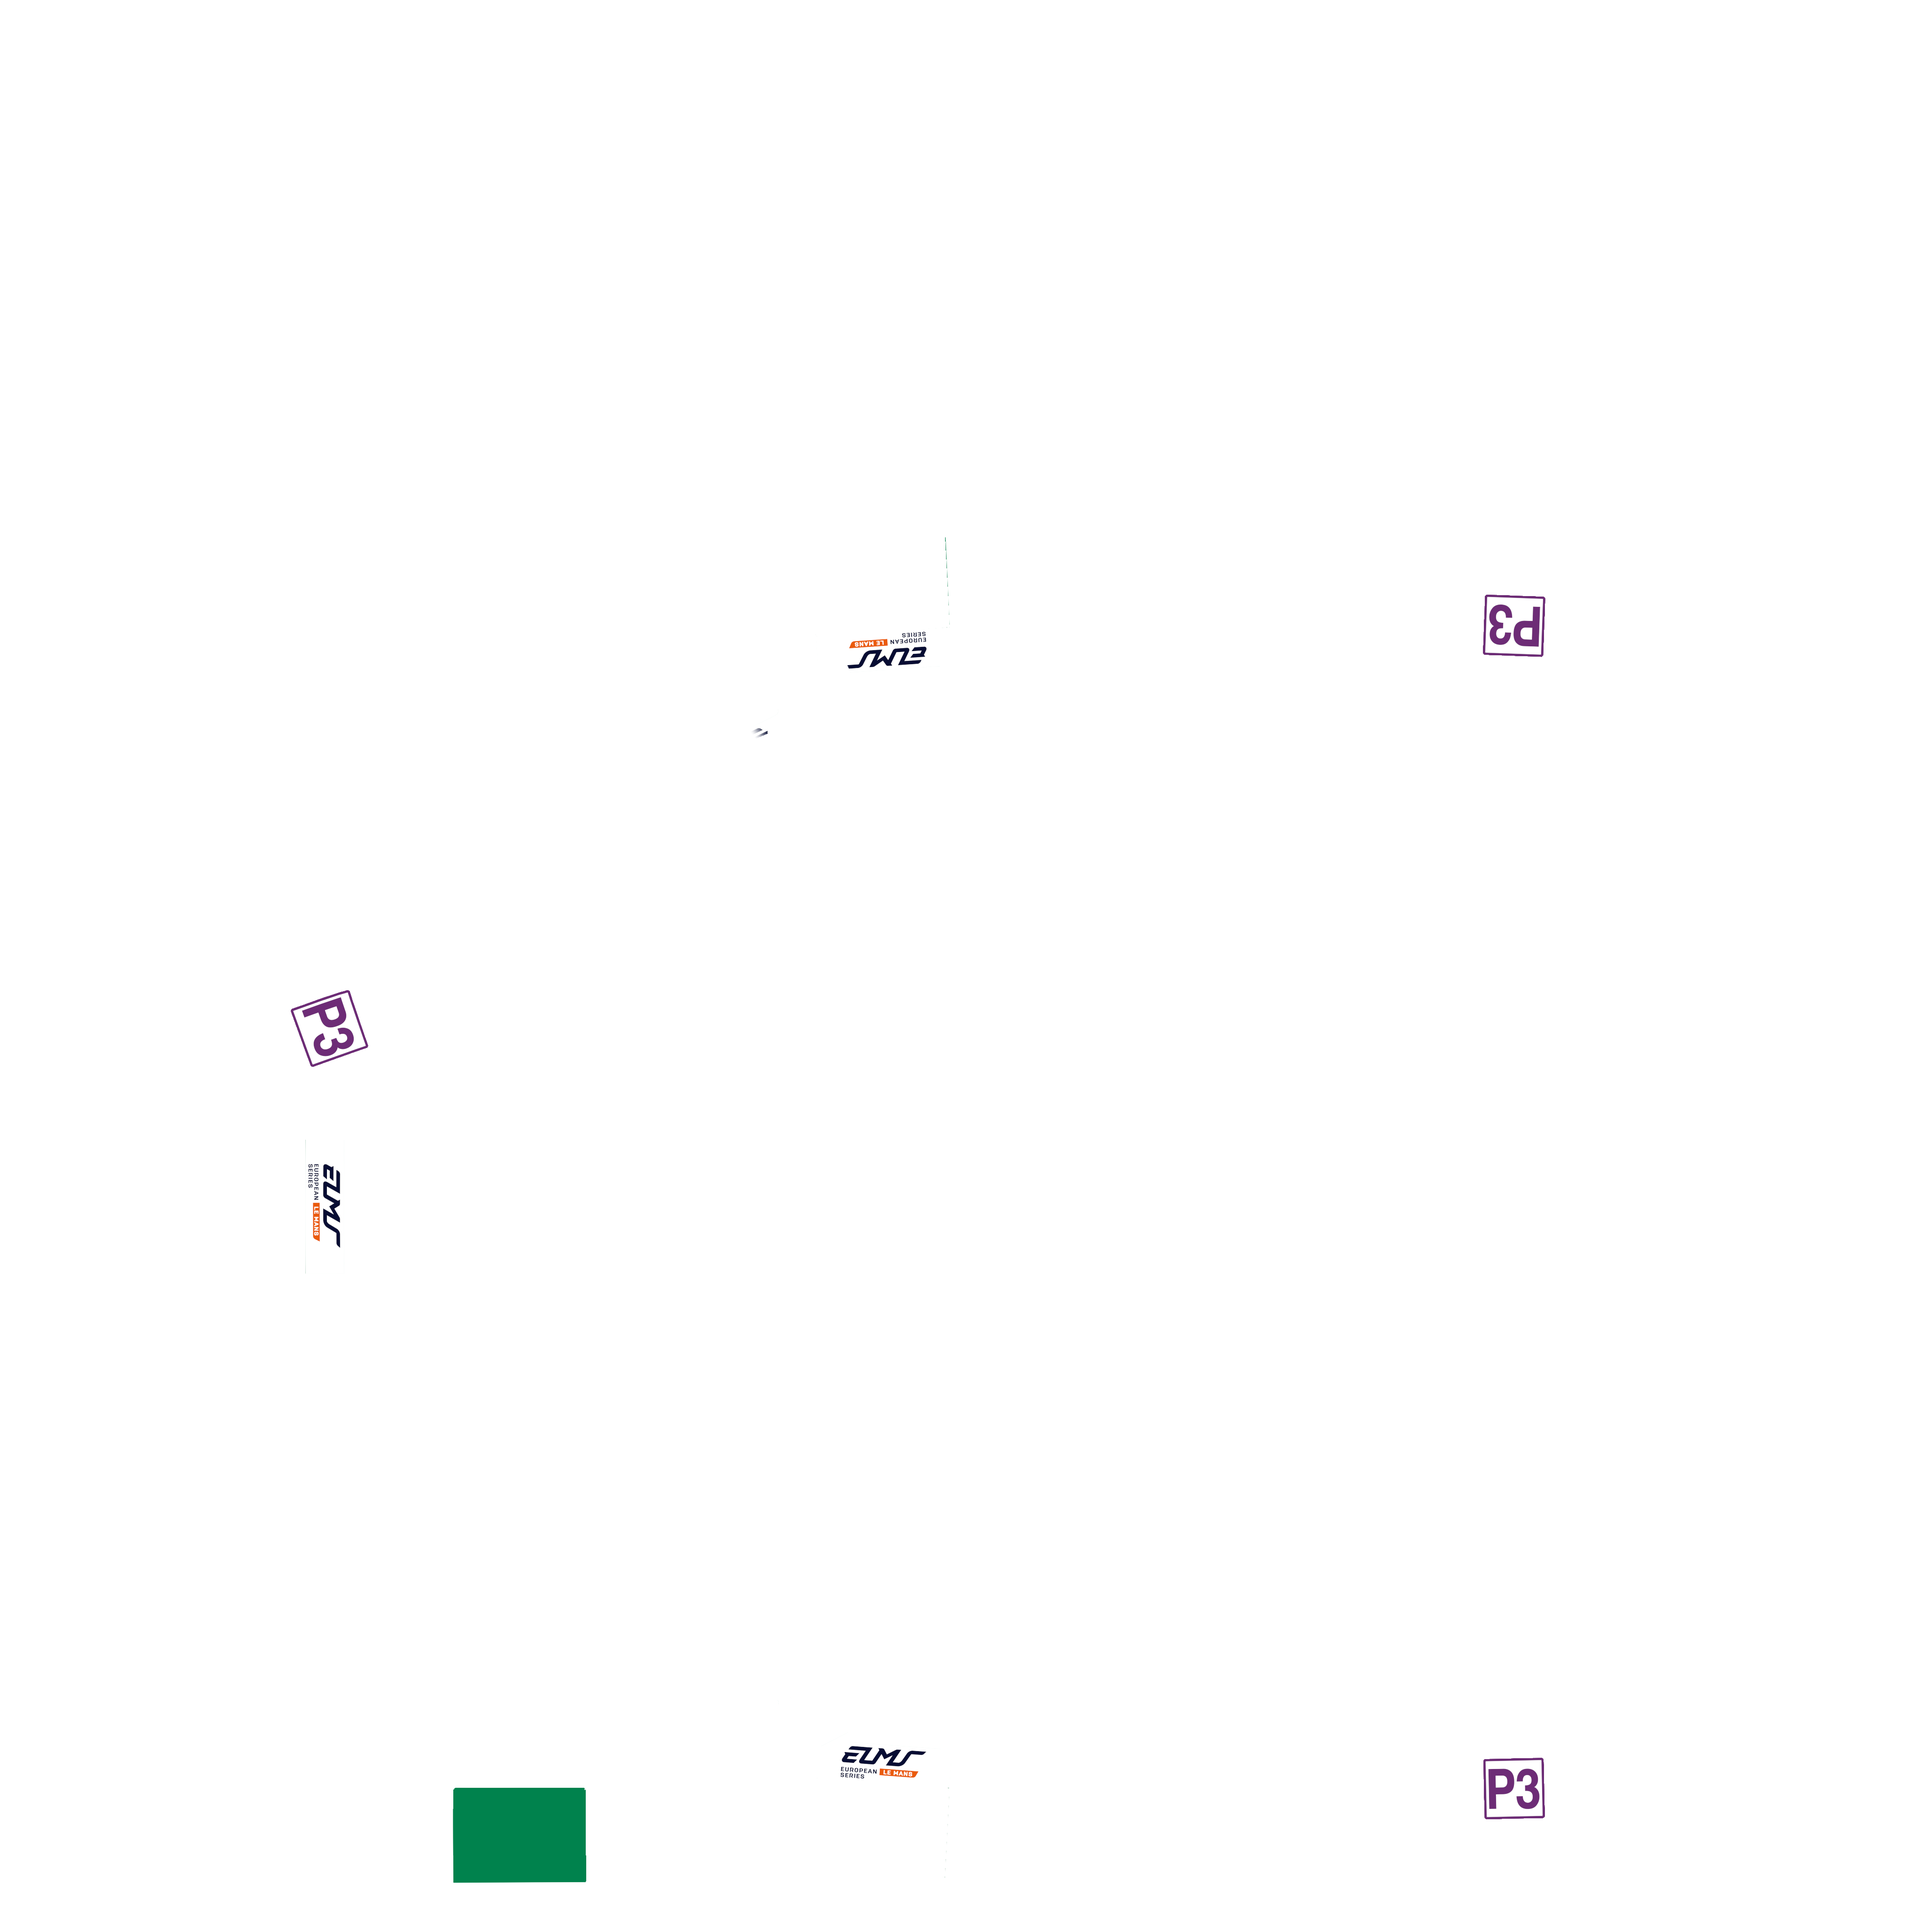
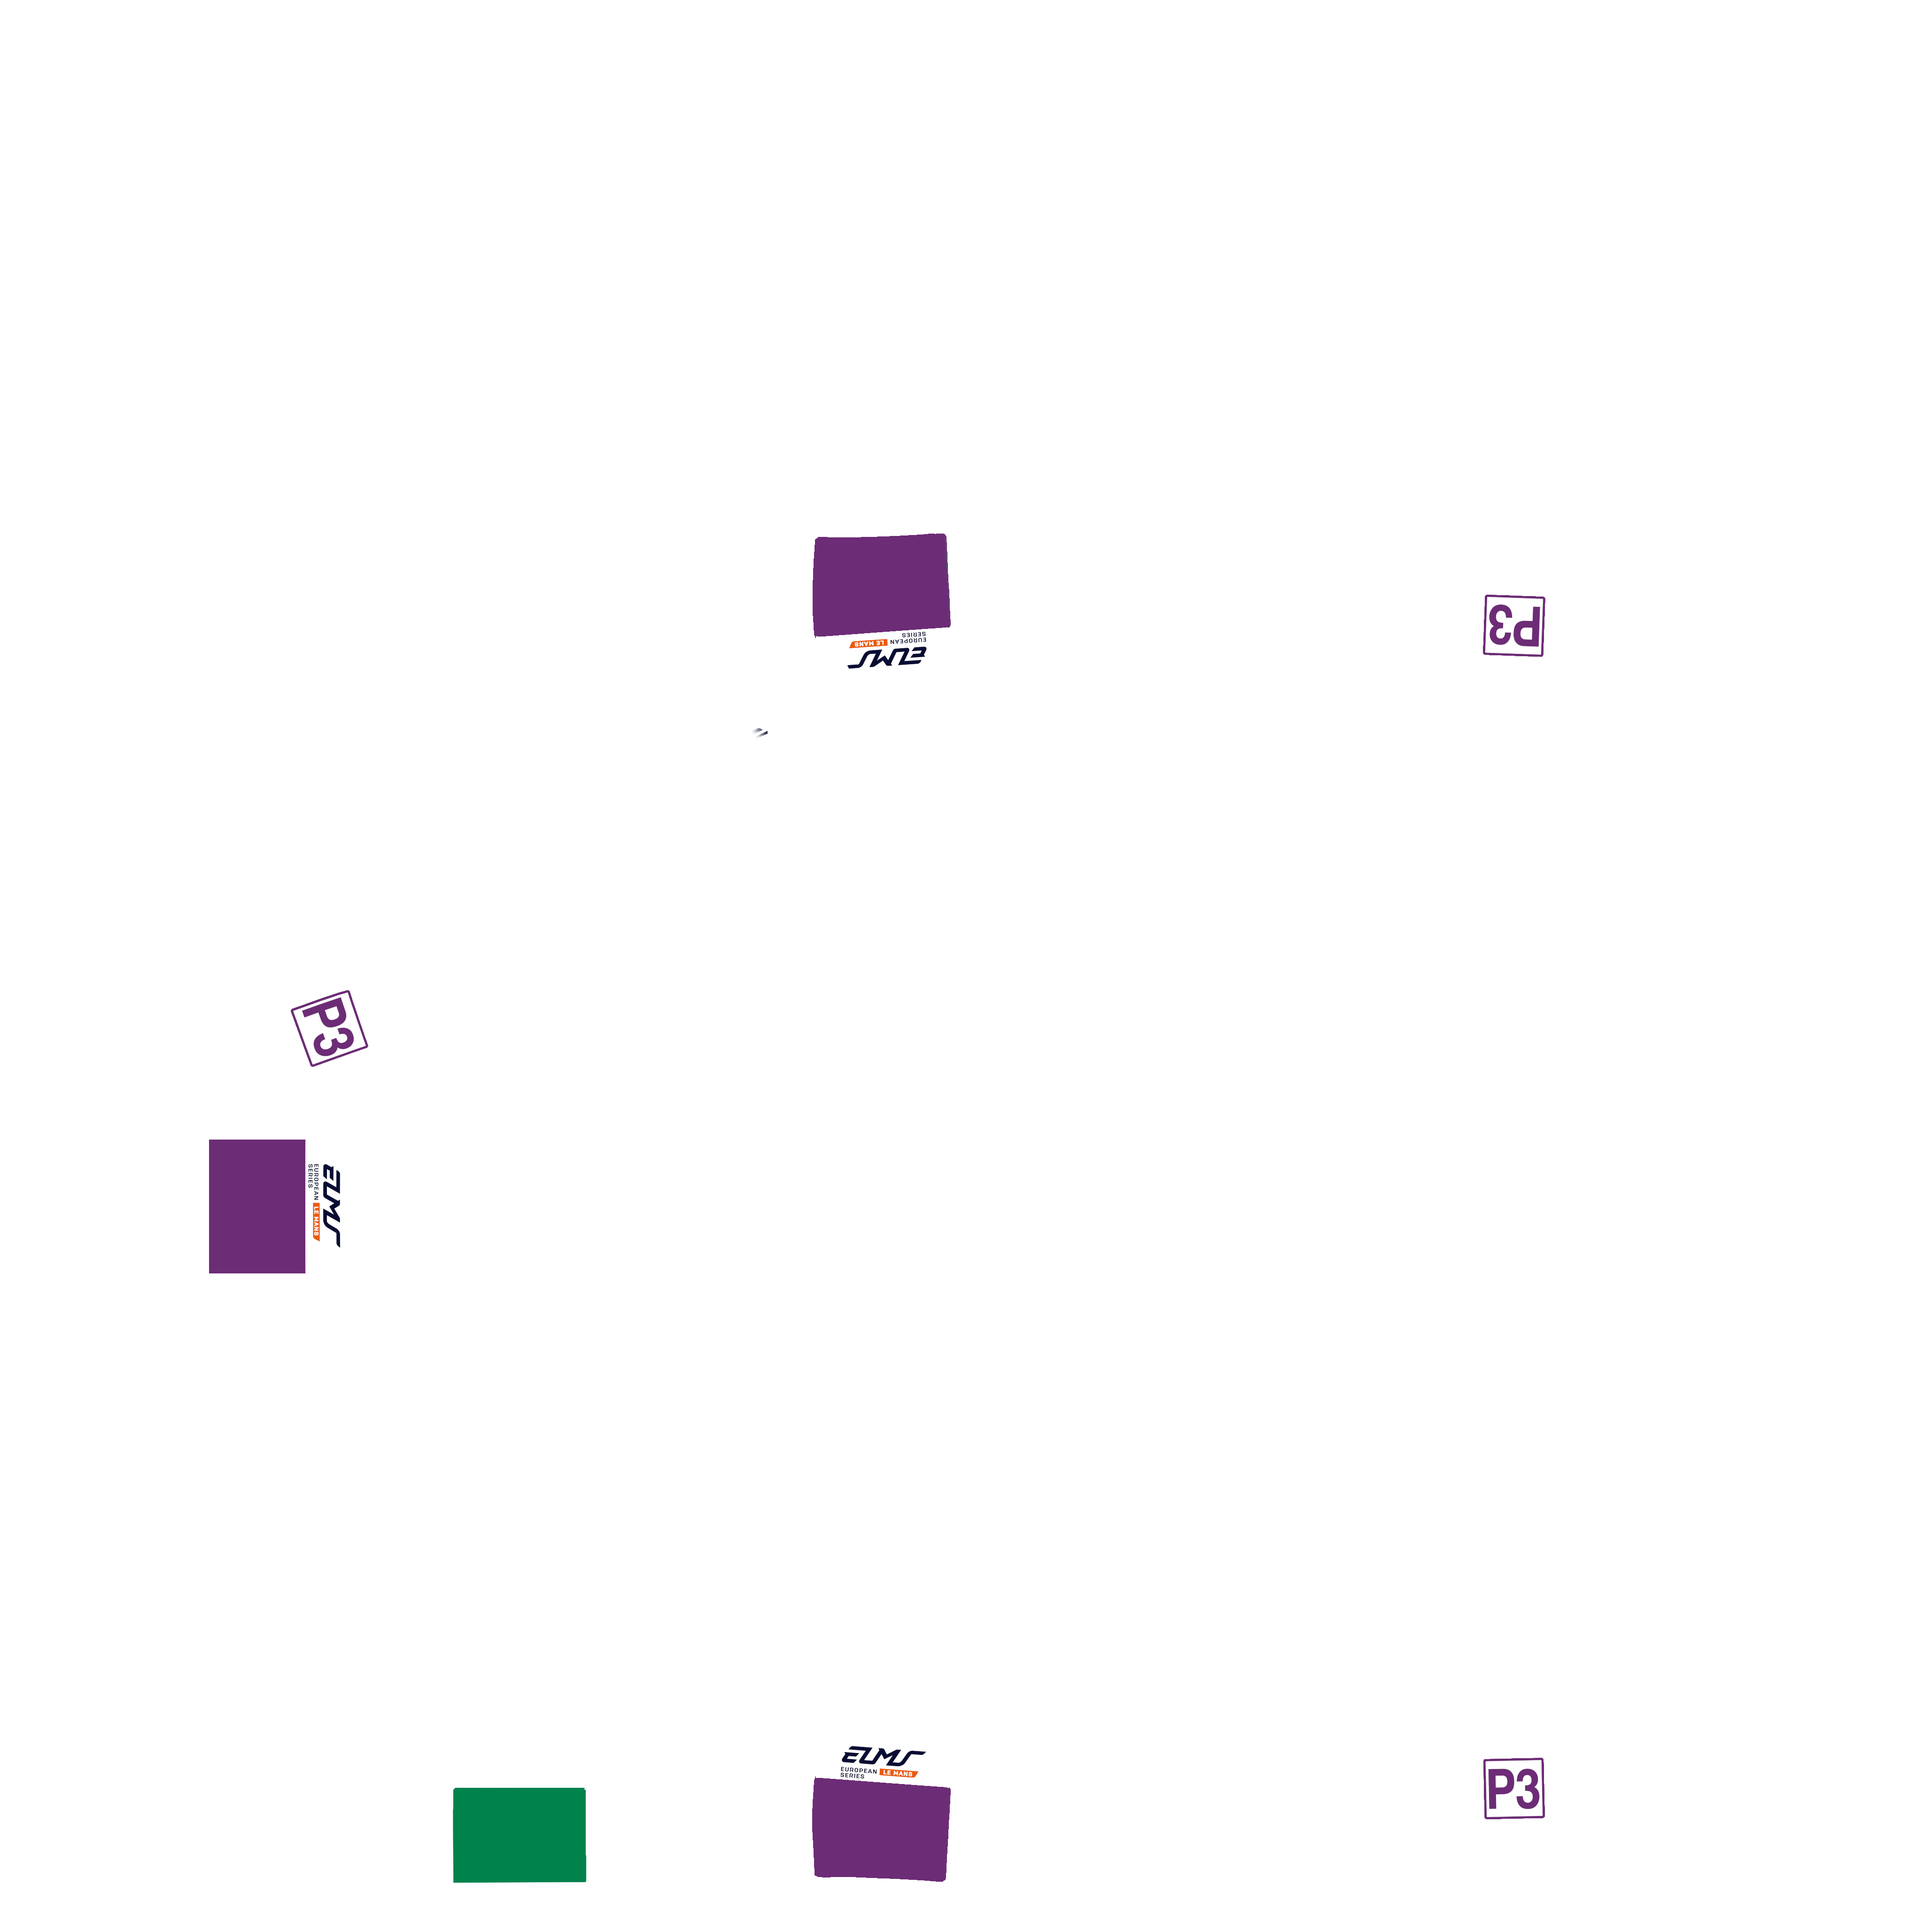
Fix the Ferrari 499P doubled nose tag and restore the ADESS LMP3 ELMS plates
- 499P: remove the duplicate HYPERCAR tag from the sticker sheet and the UV guide
- ADESS AD25: restore the purple ELMS number panels (sides from the guide's
  plate-shaped holes, nose from the Duqueine layout) and fill the matching mask holes
- scripts/patch-sheets.mjs: idempotent, verified pixel repairs that need no PSD
- psd-lib: decide whether a Color Fill is full-canvas backing after its mask is
  applied, not from its bounding box (likely cause of the missing LMP3 plates)

Claude-Session: https://claude.ai/code/session_01HdWe5q6etevq8D1CwZWYZa

Changed region(s): [[0.4062, 0.9062, 0.5, 1.0], [0.4062, 0.2812, 0.5, 0.3438], [0.0938, 0.5938, 0.1562, 0.6875]]

diff --git a/CHANGELOG.md b/CHANGELOG.md
@@ -2,6 +2,37 @@
 
 All notable changes to the LMU Livery Design Tool.
 
+## Unreleased — 7 November 2026
+
+### Fixed
+
+- **Ferrari 499P: the nose HYPERCAR tag was stamped twice.** The sticker sheet carried a
+  second copy 28px below the first, so the nose read "HYPERR / CARR" with a doubled
+  border, and that was baked into every exported `.tga`. Removed from both the sticker
+  sheet and the UV guide, keeping the guide's mesh lines.
+- **ADESS AD25 LMP3: the purple ELMS number panels were missing.** Restored on both sides
+  and on the nose. The side panels follow the plate-shaped holes the UV guide still
+  carried; the nose panel uses the Duqueine D09's layout. The body mask had the same holes,
+  so the base colour skipped those panels; they are filled now.
+- Both repairs are in `scripts/patch-sheets.mjs`. It is idempotent, and before writing it
+  checks that nothing outside the repaired areas changed.
+- **Extractor:** a masked `Color Fill` layer was dropped as "full-canvas backing" because
+  of its bounding box, which always covers the whole document, even when its mask cuts
+  it down to a small plate. Coverage is now measured after the mask. This is the suspected
+  cause of the missing LMP3 plates, but it can only be confirmed by re-running the
+  extraction on the PSDs.
+
+### Known, not yet fixed
+
+- **Ginetta G61 Evo LMP3: purple ELMS panels still missing.** Unlike the ADESS, nothing in
+  the shipped assets records where they go: no white strip and no hole in the guide. It
+  needs `node scripts/psd-batch.mjs public/lmutemplates ginetta` (then `psd-masks.mjs`
+  and `webp-convert.mjs`) on a machine with the game installed.
+- **BMW M4 LMGT3: carbon parts are not marked.** Its UV guide predates the extraction
+  pipeline and was made by hand, all white, so unlike the other GT3s it does not shade
+  the carbon parts, and the base colour covers the whole car. Fixing this needs the
+  BMW PSD's carbon layer.
+
 ## Unreleased — 21 September 2026
 
 ### Added

diff --git a/README.md b/README.md
@@ -170,6 +170,14 @@ Known limitations:
 - Material groups (`Carbon`, `Carbon Fibre`, `PARTS`, `plastic`) are dropped from both
   outputs; they vary wildly between files and Porsche 963's covers the whole canvas.
 
+### Repairs without a PSD
+
+`scripts/patch-sheets.mjs` fixes the defects that can be repaired exactly from the
+shipped assets: the Ferrari 499P's doubled nose tag, and the ADESS AD25's missing ELMS
+plates. It is idempotent, and it writes nothing until it has checked that every pixel
+outside the repaired areas is unchanged. If you re-extract one of those cars from its
+PSD, re-run the script; it should report `already clean`.
+
 ### Mirror axis
 
 The two flanks of the car are unwrapped as a horizontal mirror pair, so the axis they
